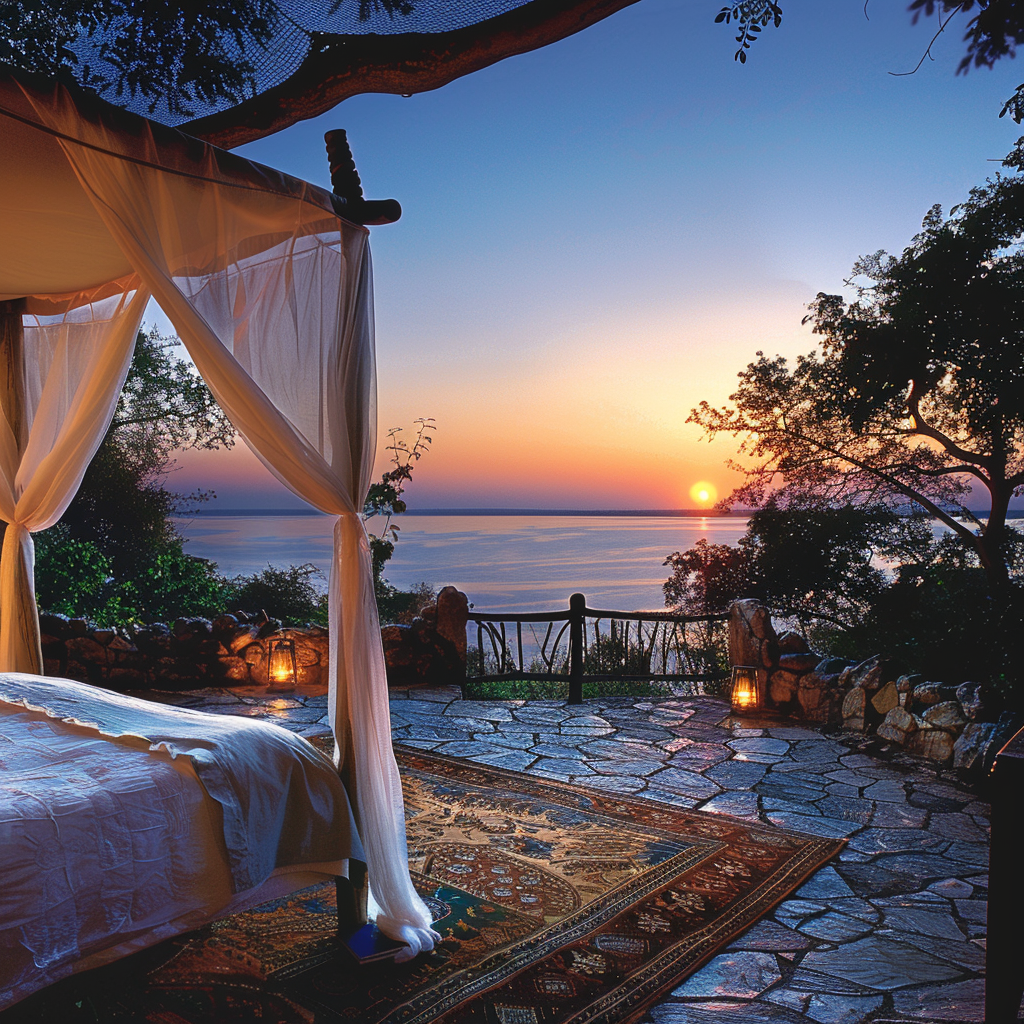
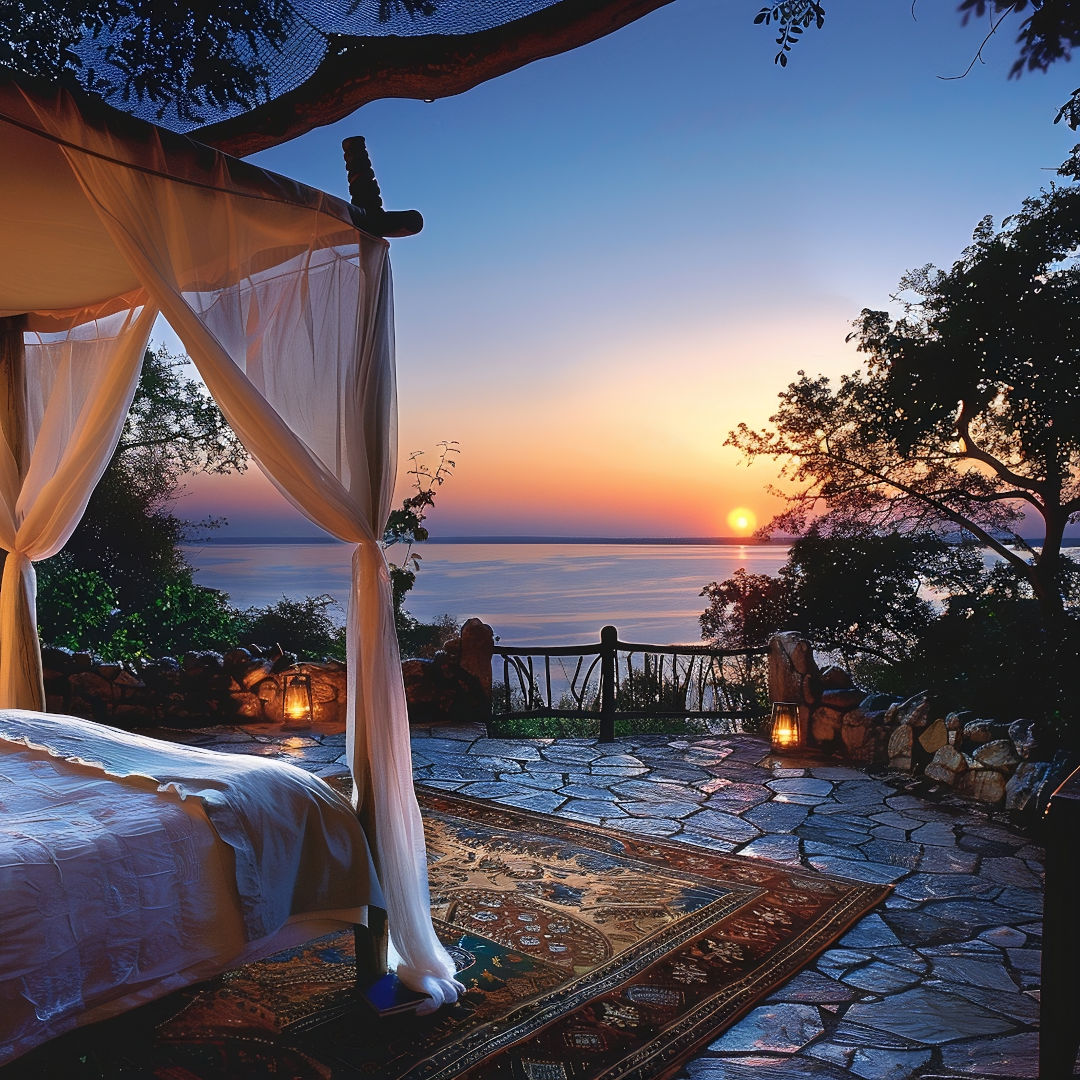
added cards

diff --git a/src/components/contact.css b/src/components/contact.css
@@ -1,0 +1,59 @@
+/* Container styling */
+div.col-md-8 {
+    padding: 20px;
+    background-color: #141b29; /* Updated background color */
+    border-radius: 8px;
+    box-shadow: 0 2px 4px rgba(0,0,0,0.1);
+    color: #ffffff; /* Adjust text color for better visibility on dark background */
+  }
+  
+  h3 {
+    color: #ffffff; /* Ensure heading is visible on dark background */
+    margin-bottom: 20px;
+    text-align: center; /* Center-align the heading */
+  }
+  
+  /* Styles for form elements */
+  form {
+    display: flex;
+    flex-direction: column;
+    align-items: center; /* Center-align form elements */
+  }
+  
+  form input[type=email],
+  form input[type=phone],
+  form input[type=text] {
+    width: 50%; /* Set width to 50% */
+    padding: 10px;
+    margin-bottom: 15px;
+    border: 1px solid #ccc;
+    border-radius: 4px;
+    box-sizing: border-box; /* Makes sure padding does not affect overall width */
+    background-color: #fff; /* Ensures input background is visible */
+    color: #333; /* Text color for inputs */
+  }
+  
+  form input[type=email]:focus,
+  form input[type=phone]:focus,
+  form input[type=text]:focus {
+    border-color: #66afe9;
+    outline: 0;
+    box-shadow: inset 0 1px 1px rgba(0,0,0,0.075), 0 0 8px rgba(102,175,233,0.6);
+  }
+  
+  form button[type=submit] {
+    width: 50%; /* Set width to 50% */
+    padding: 10px;
+    background-color: #007bff;
+    color: white;
+    border: none;
+    border-radius: 4px;
+    cursor: pointer;
+    font-size: 16px;
+    margin-top: 10px; /* Adds some space above the submit button */
+  }
+  
+  form button[type=submit]:hover {
+    background-color: #0056b3;
+  }
+  

diff --git a/src/pages/contact.js b/src/pages/contact.js
@@ -1,0 +1,58 @@
+import React, { useState }  from "react"
+import axios from "axios";
+import { Link } from "gatsby"
+import Layout from "../components/layout"
+
+const MyForm = () => {
+
+    const [serverState, setServerState] = useState({
+      submitting: false,
+      status: null
+    });
+    const handleServerResponse = (ok, msg, form) => {
+      setServerState({
+        submitting: false,
+        status: { ok, msg }
+      });
+      if (ok) {
+        form.reset();
+      }
+    };
+    const handleOnSubmit = e => {
+      e.preventDefault();
+      const form = e.target;
+      setServerState({ submitting: true });
+      axios({
+        method: "post",
+        url: "https://getform.io/f/Rb4lA6bB",
+        data: new FormData(form)
+      })
+        .then(r => {
+          handleServerResponse(true, "Thanks!", form);
+        })
+        .catch(r => {
+          handleServerResponse(false, r.response.data.error, form);
+        });
+    };
+    return (
+        <Layout>
+
+    <div>
+         <div className="col-md-8 mt-5">
+            <h3 class="fell">Get in touch today!</h3>
+            <form onSubmit={handleOnSubmit}>
+              <input type="email" name="email" placeholder="Your Email"></input>
+              <input type="phone" name="phone" placeholder="Your phone"></input>
+              <input type="text" name="name" placeholder="Your Name"></input>
+              <input type="text" name="message" placeholder="Your Message"></input>
+              <button type="submit">Send</button>
+          </form>
+        </div>
+      </div>
+
+  </Layout>
+
+    );
+  };
+
+  export default MyForm;

diff --git a/src/components/Cards.css b/src/components/Cards.css
@@ -1,0 +1,53 @@
+.card-container {
+  display: flex;
+  justify-content: space-between;
+  align-items: center;
+  flex-wrap: wrap;
+  gap: 10px; /* Adjust the space between cards */
+  padding:10px;
+  margin-top: 20px;
+}
+
+.card {
+  flex-basis: calc(33.333% - 40px); /* Adjust based on gap and container padding */
+  text-decoration: none; /* Removes underline from links */
+  color: inherit; /* Inherits text color */
+  /* border: 1px solid #fff; Optional: adds border */
+  border-radius: 15px; /* Optional: adds rounded corners */
+  overflow: hidden; /* Ensures the content fits within the borders */
+  transition: transform 0.3s ease; /* Optional: adds animation */
+  position: relative; /* Needed for absolute positioning of title */
+  display: block; /* Make the link block-level */
+}
+
+.card:hover {
+  transform: scale(1.05); /* Optional: scales card on hover */
+}
+
+.card-image {
+  width: 100%; /* Makes the image responsive */
+  height: 350px; /* Adjust based on your design */
+  object-fit: cover; /* Ensures the image covers the area */
+}
+
+.card-title {
+  position: absolute;
+  bottom: 0;
+  left: 0;
+  width: 100%;
+  background-color: rgb(20,27,41,0.5);/* Semi-transparent overlay */
+  padding: 15px;
+  font-size: 2em; /* Adjust based on your design */
+  text-align: center;
+}
+
+@media (max-width: 1024px) {
+  .card {
+    flex-basis: 100%; /* Stacks cards vertically on smaller screens */
+    margin-top:20px;
+  }
+
+  .card-image {
+    height:250px;
+  }
+}

diff --git a/src/components/Cards.js b/src/components/Cards.js
@@ -1,0 +1,28 @@
+import React from 'react';
+import { StaticImage } from 'gatsby-plugin-image';
+import './Cards.css'; // Importing CSS styles
+
+const Cards = () => (
+  <div className="card-container">
+    <a href="/page-1/" className="card">
+      <div className="card-image">
+        <StaticImage src="../images/vietnam-field.png" alt="Card 1" />
+        <div className="card-title windsong">Inspiration</div>
+      </div>
+    </a>
+    <a href="/page-2/" className="card">
+      <div className="card-image">
+        <StaticImage src="../images/new-york.png" alt="Card 2" />
+        <div className="card-title windsong">Bucket Lists</div>
+      </div>
+    </a>
+    <a href="/page-3/" className="card">
+      <div className="card-image">
+        <StaticImage src="../images/pool.png" alt="Card 3" />
+        <div className="card-title windsong">A year of travel</div>
+      </div>
+    </a>
+  </div>
+);
+
+export default Cards;

diff --git a/src/components/HeroSection.js b/src/components/HeroSection.js
@@ -1,12 +1,12 @@
 import React from "react"
-import backgroundImage from "../images/africa-bed-transformed.png" // Adjust the path if necessary
+import backgroundImage from "../images/africa-bed.png" // Adjust the path if necessary
 import "./HeroSection.css" // Importing CSS
 
 const HeroSection = () => (
   <div className="hero" style={{ backgroundImage: `url(${backgroundImage})`, borderRadius: '15px'  }}>
     <div className="hero-content">
-      <h1 class="windsong">Personal Client Travel</h1>
-      <h3 class="fell">Crafting journeys that transcend the ordinary, leaving an indelible mark on your heart long after you’ve returned home.</h3>
+        <h1 class="windsong">Personal Client Travel</h1>
+        <h3 class="fell">Crafting journeys that transcend the ordinary, leaving an indelible mark on your heart long after you’ve returned home.</h3>
     </div>
   </div>
 )

diff --git a/src/pages/about.js b/src/pages/about.js
@@ -6,25 +6,12 @@ import Layout from "../components/layout"
 import Seo from "../components/seo"
 import * as styles from "../components/index.module.css"
 import HeroSection from "../components/HeroSection"
-import Cards from '../components/Cards'; // Adjust the path as needed
-
 
 const IndexPage = () => (
   <Layout>
     <div className={styles.textCenter}>
-    <HeroSection />
-    <StaticImage
-        src="../images/somportex-logo-text.png"
-        loading="eager"
-        width={250}
-        quality={95}
-        formats={["auto", "webp", "avif"]}
-        alt=""
-        style={{ margin: `var(--space-6)`}}
-      />
+      <p>About</p>
     </div>
-    <Cards />  
-
 
   </Layout>
 )

diff --git a/src/components/layout.js b/src/components/layout.js
@@ -10,6 +10,7 @@ import { useStaticQuery, graphql } from "gatsby"
 
 import Header from "./header"
 import "./layout.css"
+import "./contact.css"
 
 const Layout = ({ children }) => {
   const data = useStaticQuery(graphql`
@@ -41,9 +42,9 @@ const Layout = ({ children }) => {
             fontSize: `var(--font-sm)`,
           }}
         >
-          © {new Date().getFullYear()} &middot; Built with
+          © {new Date().getFullYear()} &middot; Somportex Travel
           {` `}
-          <a href="https://www.gatsbyjs.com">Gatsby</a>
+          {/* <a href="https://www.gatsbyjs.com">Somportex Travel</a> */}
         </footer>
       </div>
     </>

diff --git a/src/components/HeroSection.css b/src/components/HeroSection.css
@@ -10,14 +10,18 @@
   
   .hero-content {
     text-align: center;
-    max-width: 550px; /* Adjust based on your content */
-  }
+    max-width: 650px; /* Adjust based on your content */
+    background-color: rgb(20,27,41,0.4);
+    border-radius: 15px;
+    padding: 20px;
+   }
 
   .windsong {
     font-family: "WindSong", cursive;
     font-weight: 400;
     font-style: normal;
     font-size:xxx-large;
+    color: white;
   }
 
   .fell {

diff --git a/src/components/header.js b/src/components/header.js
@@ -14,8 +14,8 @@ const Header = () => (
     </div>
     <nav>
       <ul className="headerNav">
-        <li><Link to="/page-1">About</Link></li>
-        <li><Link to="/page-2">Contact</Link></li>
+        <li><Link to="/about">About</Link></li>
+        <li><Link to="/contact">Contact</Link></li>
       </ul>
     </nav>
   </header>
